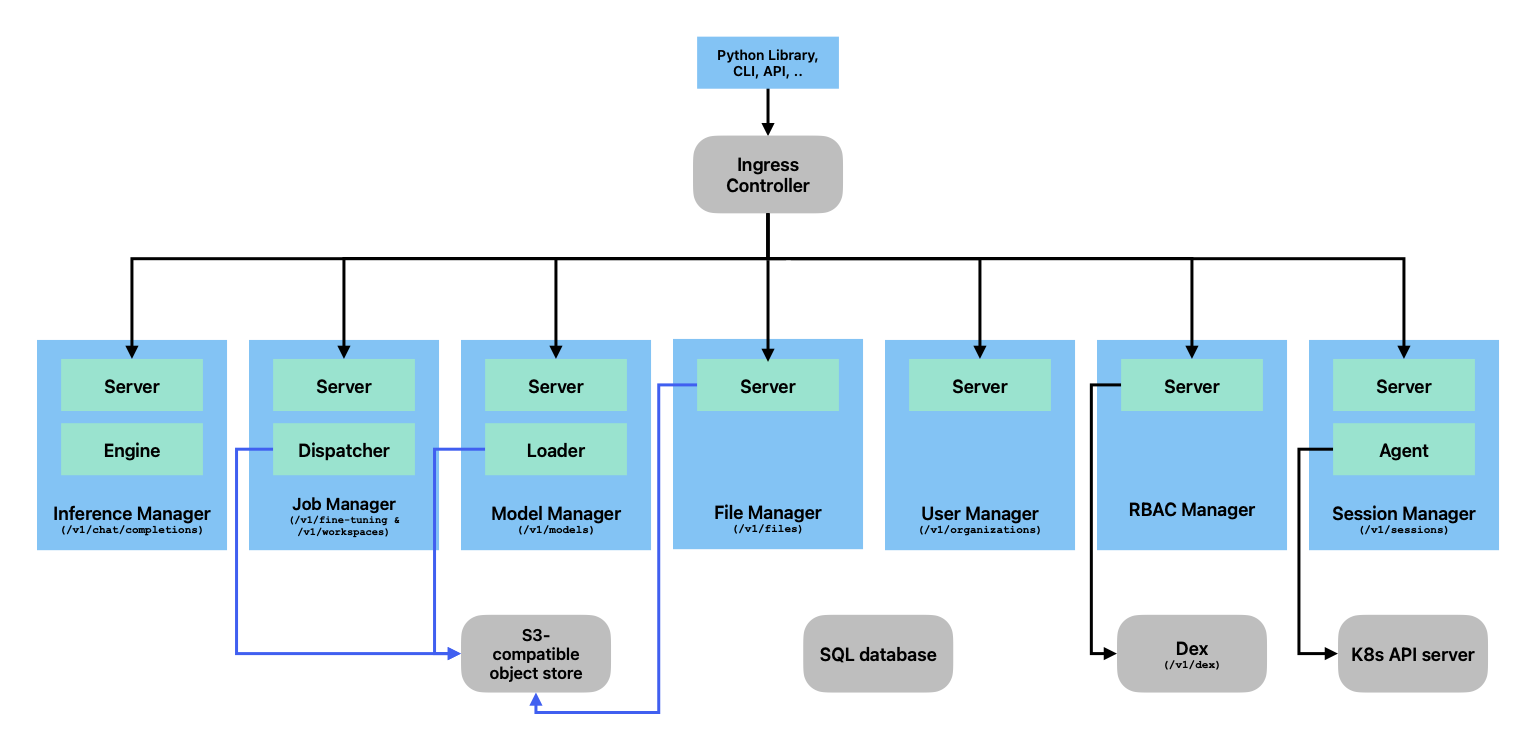
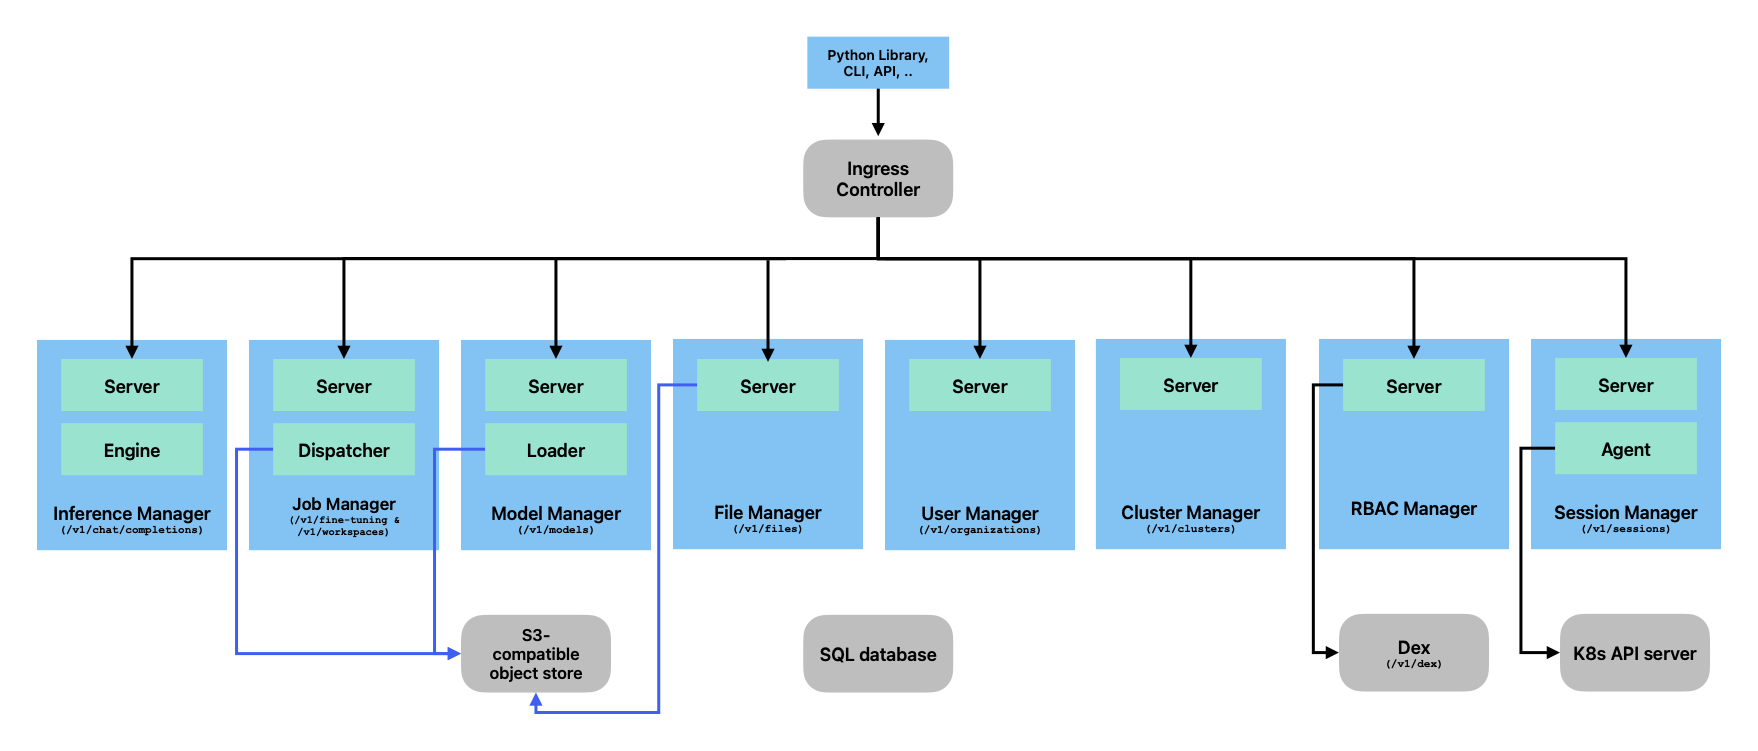
Add Cluster Manager to the architecture diagram (#55)

diff --git a/docs/source/architecture.rst b/docs/source/architecture.rst
@@ -15,9 +15,9 @@ LLM Operator provisions the LLM stack consisting of the following micro services
 - Model Manager
 - File Manager
 - User Manager
+- Cluster Manager
 - Session Manager
 - RBAC Manager
-
 
 Each manager is responsible for the specific feature of LLM services as their names indicate. The following diagram shows the high-level
 architecture:
